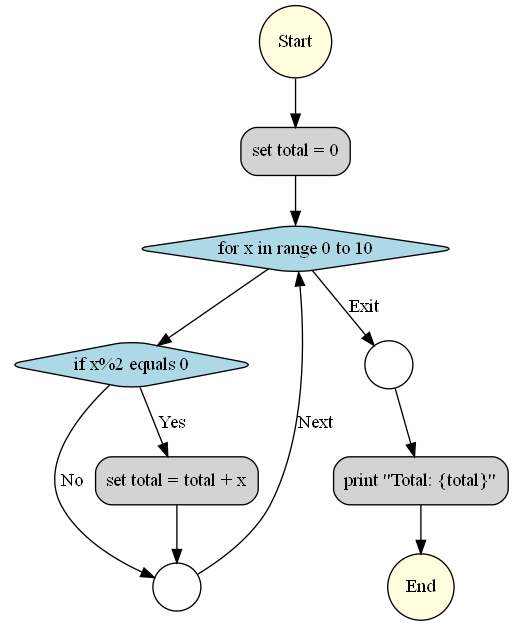
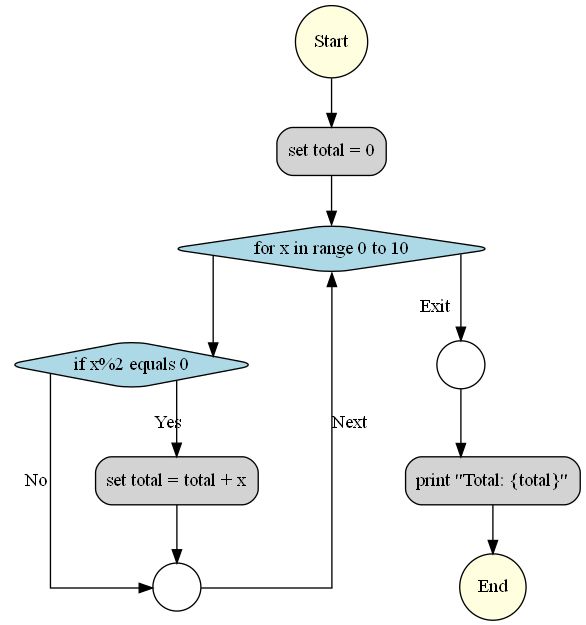
modify flowchart generator to make the line more structure

diff --git a/src/flowchart_generator.py b/src/flowchart_generator.py
@@ -1,7 +1,6 @@
 """
 flowchart_generator.py
-
-This module generates flowcharts from tokenized pseudocode using Graphviz.
+Generates flowcharts from tokenized pseudocode using Graphviz
 
 Author: Thanakit Thanasuwanditee(Wave)
 Date: 07/10/2025
@@ -10,40 +9,67 @@ Date: 07/10/2025
 from graphviz import Digraph
 
 class FlowchartBuilder:
+    """
+    Class to build flowcharts from tokenized pseudocode
+    """
     def __init__(self, tokens):
-        self.tokens = tokens
-        self.dot = Digraph("Flowchart", format="png")
+        """
+        Initialize the flowchart builder with tokens
+        Arg:
+            tokens - list of token dictionaries containing type, text, and indent information
+        """
+        self.tokens = tokens  # list - tokenized pseudocode input
+        self.dot = Digraph("Flowchart", format="png")  # Digraph - graphviz diagram object
+        self.dot.attr(splines="ortho")
         self.dot.attr(rankdir="TB", fontname="Arial", size="8,10")
         self.dot.attr('node', style='rounded,filled', fillcolor='white')
-        self.node_count = 0
-        self.stack = []
-        self.last_node = None
+        self.node_count = 0  # int - counter for unique node naming
+        self.stack = []  # list - stack to track nested control structures
+        self.last_node = None  # str - name of the most recently created node
 
     def new_node(self, label, shape="rectangle", color="lightgrey"):
-        """Create a new Graphviz node."""
+        """
+        Create a new Graphviz node
+        Arg:
+            label - str, the text to display in the node
+            shape - str, the shape of the node (default: "rectangle")
+            color - str, the fill color of the node (default: "lightgrey")
+        Return:
+            str - the unique name identifier of the created node
+        """
         self.node_count += 1
-        name = f"n{self.node_count}"
+        name = f"n{self.node_count}"  # str - unique node identifier
         self.dot.node(name, label, shape=shape, fillcolor=color)
         return name
 
     def connect(self, src, dst, label=""):
-        """Create a directional edge between two nodes."""
+        """
+        Create a directional edge between two nodes
+        Arg:
+            src - str, the source node identifier
+            dst - str, the destination node identifier
+            label - str, optional label for the edge (default: "")
+        """
         if src and dst:
             self.dot.edge(src, dst, label=label)
 
     def add_flow(self):
-        """Main builder logic to connect tokens."""
-        start_node = self.new_node("Start", shape="circle", color="lightyellow")
+        """
+        Main builder logic to connect tokens and create flowchart structure
+        Return:
+            Digraph - the complete flowchart diagram object
+        """
+        start_node = self.new_node("Start", shape="circle", color="lightyellow")  # str - starting node identifier
         self.last_node = start_node
 
         for i, token in enumerate(self.tokens):
-            ttype = token["type"].upper().strip()
-            text = token.get("text", token.get("content", "")).strip()
-            indent = token.get("indent", 0)
+            ttype = token["type"].upper().strip()  # str - token type in uppercase
+            text = token.get("text", token.get("content", "")).strip()  # str - token text content
+            indent = token.get("indent", 0)  # int - indentation level of the token
 
             # Determine node shape and color by type
             if ttype in {"IF", "WHILE", "FOR"}:
-                node = self.new_node(text, shape="diamond", color="lightblue")
+                node = self.new_node(text, shape="diamond", color="lightblue")  # str - control structure node
                 self.connect(self.last_node, node)
                 
                 if ttype == "IF":
@@ -56,13 +82,13 @@ class FlowchartBuilder:
             elif ttype.startswith("END"):
                 # Match block ending (ENDIF, ENDFOR, ENDWHILE, etc.)
                 if self.stack:
-                    block_info = self.stack.pop()
-                    block_type = block_info[0]
-                    start_node = block_info[1]
+                    block_info = self.stack.pop()  # tuple - information about the control block
+                    block_type = block_info[0]  # str - type of control structure
+                    start_node = block_info[1]  # str - starting node of the control block
                     
                     if block_type == "IF":
                         # For IF blocks, create a merge point after ENDIF
-                        merge_node = self.new_node("", shape="circle", color="white")
+                        merge_node = self.new_node("", shape="circle", color="white")  # str - merge point node
                         self.connect(self.last_node, merge_node)
                         
                         # Connect the IF node's "No" branch to the merge point
@@ -74,7 +100,7 @@ class FlowchartBuilder:
                         self.connect(self.last_node, start_node, label="Next")
                         
                         # Create exit point for loop
-                        exit_node = self.new_node("", shape="circle", color="white")
+                        exit_node = self.new_node("", shape="circle", color="white")  # str - loop exit node
                         self.connect(start_node, exit_node, label="Exit")
                         self.last_node = exit_node
                 continue
@@ -82,21 +108,21 @@ class FlowchartBuilder:
             elif ttype == "ELSE":
                 # Handle else branch
                 if self.stack and self.stack[-1][0] == "IF":
-                    if_node = self.stack[-1][1]
+                    if_node = self.stack[-1][1]  # str - IF statement node identifier
                     # Mark that we're in else branch
                     self.last_node = if_node
                 continue
 
             else:
                 # Regular operation (SET, PRINT, RETURN, CALL, etc.)
-                node = self.new_node(text, shape="rectangle", color="lightgrey")
+                node = self.new_node(text, shape="rectangle", color="lightgrey")  # str - operation node
                 
                 # Check if we're right after an IF statement
                 if self.stack and self.stack[-1][0] == "IF" and i > 0:
-                    prev_token = self.tokens[i-1]
+                    prev_token = self.tokens[i-1]  # dict - previous token in the list
                     if prev_token["type"].upper() == "IF":
                         # This is the first statement in the IF block (Yes branch)
-                        if_node = self.stack[-1][1]
+                        if_node = self.stack[-1][1]  # str - IF statement node identifier
                         self.connect(if_node, node, label="Yes")
                     else:
                         self.connect(self.last_node, node)
@@ -106,19 +132,24 @@ class FlowchartBuilder:
                 self.last_node = node
 
         # Add End node
-        end_node = self.new_node("End", shape="circle", color="lightyellow")
+        end_node = self.new_node("End", shape="circle", color="lightyellow")  # str - ending node identifier
         self.connect(self.last_node, end_node)
 
         return self.dot
 
     def render(self, filename="flowchart"):
-        """Render and save the flowchart."""
-        dot = self.add_flow()
+        """
+        Render and save the flowchart to a file
+        Arg:
+            filename - str, the output filename without extension (default: "flowchart")
+        """
+        dot = self.add_flow()  # Digraph - complete flowchart diagram
         dot.render(filename, cleanup=True)
-        print(f"✅ Flowchart generated: {filename}.png")
+        print(f"Flowchart generated: {filename}.png")
 
 if __name__ == "__main__":
-    tokens = [
+    # Example test tokens to demonstrate flowchart generation
+    tokens = [  # list - sample tokenized pseudocode
         {"type": "SET", "text": "set total = 0", "indent": 0},
         {"type": "FOR", "text": "for x in range 0 to 10", "indent": 0},
         {"type": "IF", "text": "if x%2 equals 0", "indent": 1},
@@ -128,5 +159,10 @@ if __name__ == "__main__":
         {"type": "PRINT", "text": 'print "Total: {total}"', "indent": 0},
     ]
 
-    fc = FlowchartBuilder(tokens)
+    fc = FlowchartBuilder(tokens)  # FlowchartBuilder - flowchart builder instance
     fc.render("flowchart_general")
+
+# output
+"""
+flowchart_general.png file
+"""
